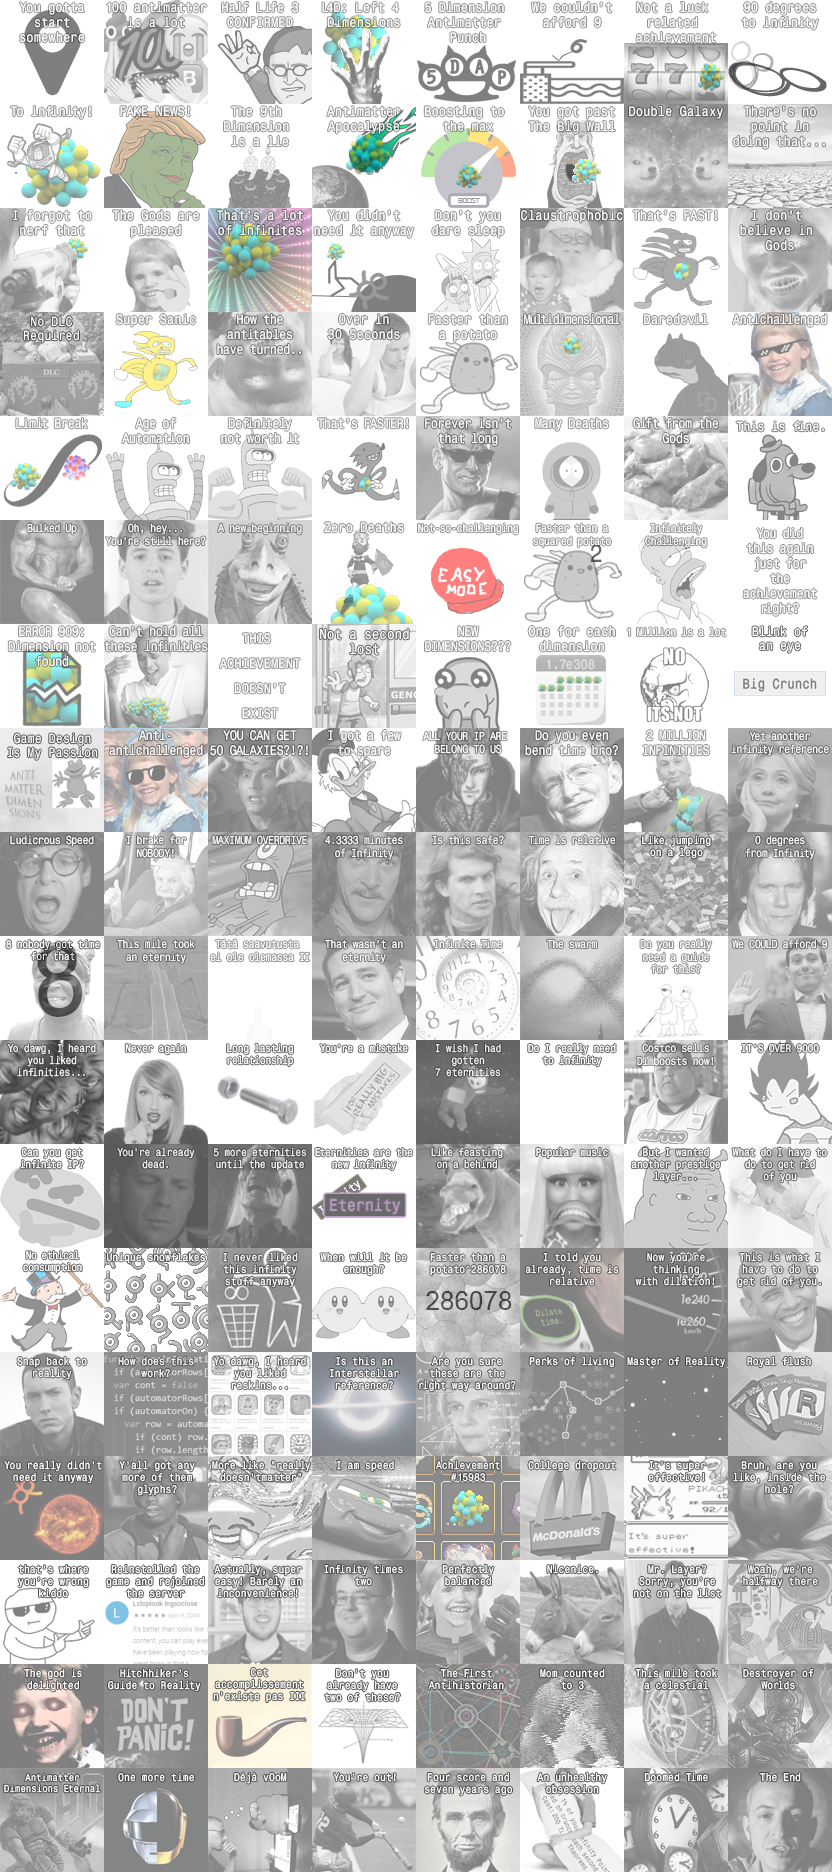
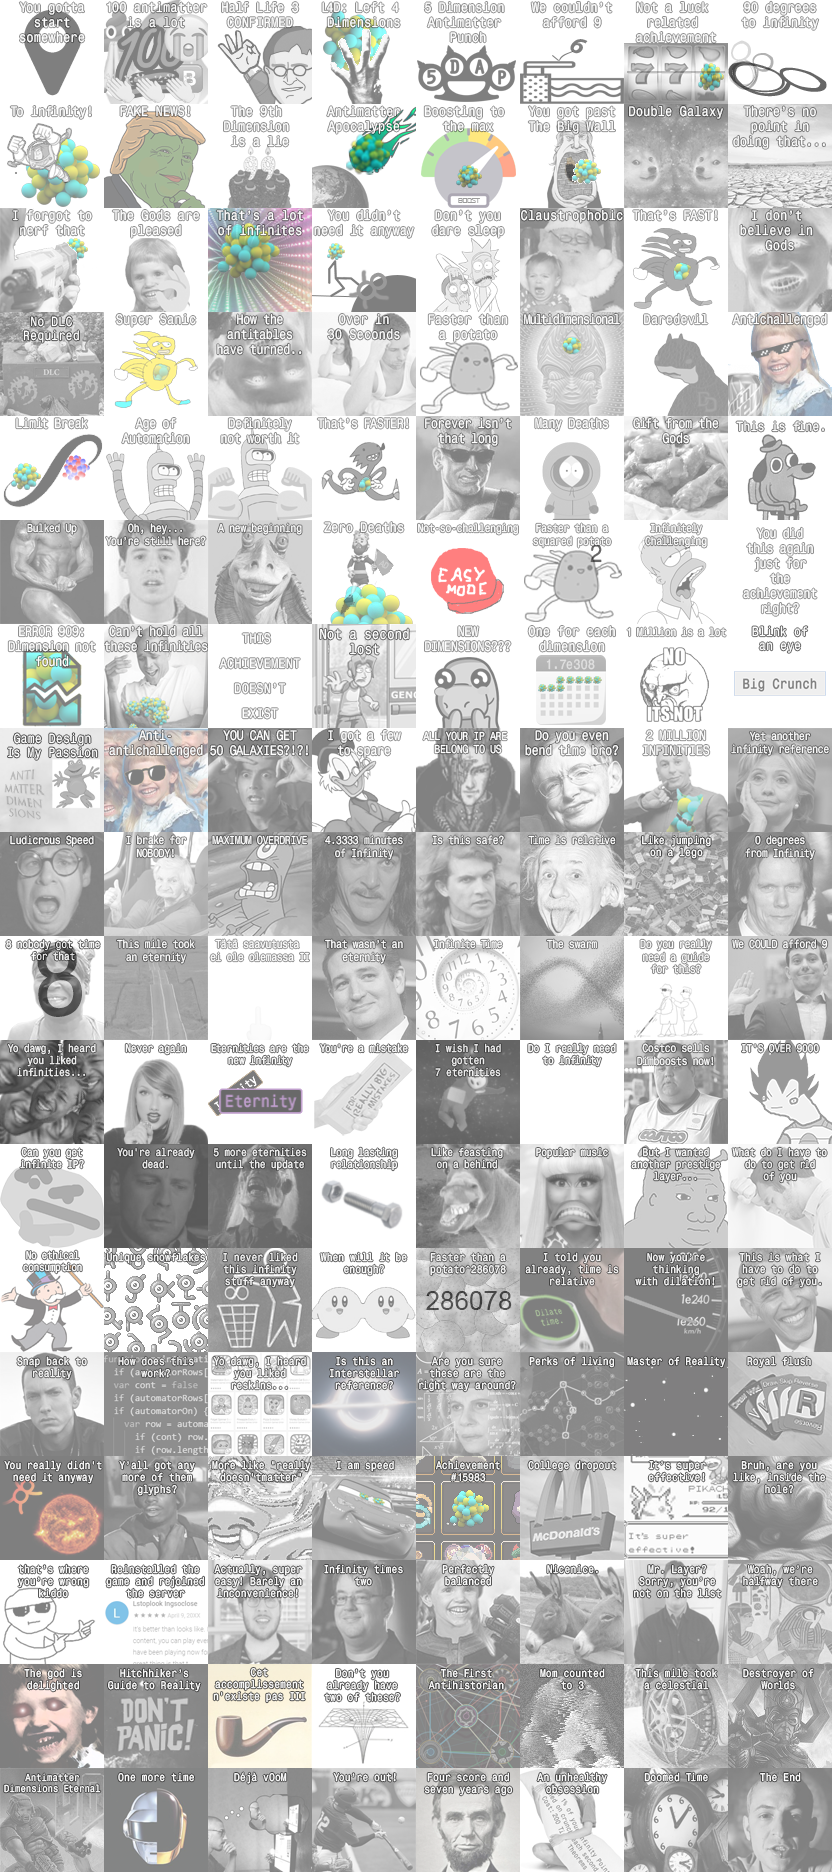
Swap positions, also fix export button

Changed region(s): [[0.25, 0.5577, 0.5, 0.6506]]

diff --git a/javascripts/core/secret-formula/achievements/normal-achievements.js b/javascripts/core/secret-formula/achievements/normal-achievements.js
@@ -782,18 +782,12 @@ GameDatabase.achievements.normal = [
   },
   {
     id: 113,
-    name: "Long lasting relationship",
-    get description() {
-      return `Have your Infinity Power per second exceed your Infinity Power
-      for ${formatInt(60)} consecutive seconds during a single Infinity.`;
-    },
-    checkRequirement: () => AchievementTimers.marathon2
-      .check(
-        !EternityChallenge(7).isRunning &&
-        InfinityDimension(1).productionPerSecond.gt(Currency.infinityPower.value),
-        60
-      ),
-    checkEvent: GAME_EVENT.GAME_TICK_AFTER
+    name: "Eternities are the new infinity",
+    get description() { return `Eternity in under ${formatInt(250)}ms.`; },
+    checkRequirement: () => Time.thisEternity.totalMilliseconds <= 250,
+    checkEvent: GAME_EVENT.ETERNITY_RESET_BEFORE,
+    get reward() { return `Gain ${formatX(2)} more Eternities.`; },
+    effect: 2,
   },
   {
     id: 114,
@@ -863,12 +857,18 @@ GameDatabase.achievements.normal = [
   },
   {
     id: 124,
-    name: "Eternities are the new infinity",
-    get description() { return `Eternity in under ${formatInt(250)}ms.`; },
-    checkRequirement: () => Time.thisEternity.totalMilliseconds <= 250,
-    checkEvent: GAME_EVENT.ETERNITY_RESET_BEFORE,
-    get reward() { return `Gain ${formatX(2)} more Eternities.`; },
-    effect: 2,
+    name: "Long lasting relationship",
+    get description() {
+      return `Have your Infinity Power per second exceed your Infinity Power
+      for ${formatInt(60)} consecutive seconds during a single Infinity.`;
+    },
+    checkRequirement: () => AchievementTimers.marathon2
+      .check(
+        !EternityChallenge(7).isRunning &&
+        InfinityDimension(1).productionPerSecond.gt(Currency.infinityPower.value),
+        60
+      ),
+    checkEvent: GAME_EVENT.GAME_TICK_AFTER
   },
   {
     id: 125,

diff --git a/javascripts/core/storage/migrations.js b/javascripts/core/storage/migrations.js
@@ -699,7 +699,11 @@ GameStorage.migrations = {
 
   convertAchievementsToBits(player) {
     // Also switches achievement positions
-    const swaps = { "4,3": "6,4", "6,4": "7,7", "7,7": "4,3", "10,1": "11,7", "11,7": "10,1" };
+    // So far there've been three swaps
+    // (1) a three-way swap of zero deaths, 1 million is a lot, and antitables
+    // (2) a two-way swap of costco sells dimboosts now and 8 nobody got time for that
+    // (3) a two-way swap of long lasting relationship and eternities are the new infinity
+    const swaps = { "4,3": "6,4", "6,4": "7,7", "7,7": "4,3", "10,1": "11,7", "11,7": "10,1", "11,3": "12,4", "12,4": "11,3" };
     const convertAchievementArray = (newAchievements, oldAchievements, isSecret) => {
       for (const oldId of oldAchievements) {
         let row = Math.floor(oldId / 10);

diff --git a/javascripts/core/storage/dev-migrations.js b/javascripts/core/storage/dev-migrations.js
@@ -1444,7 +1444,21 @@ GameStorage.devMigrations = {
       delete player.options.sidebarMinimized;
       delete player.options.chart;
       delete player.devMode;
-    }
+    },
+    player => {
+      let swap1 = player.achievementBits[10] & 4;
+      let swap2 = player.achievementBits[11] & 8;
+      if (swap1) {
+        player.achievementBits[11] |= 8;
+      } else {
+        player.achievementBits[11] &= ~8;
+      }
+      if (swap2) {
+        player.achievementBits[10] |= 4;
+      } else {
+        player.achievementBits[10] &= ~4;
+      }
+    },
   ],
 
   patch(player) {

diff --git a/javascripts/core/eternity.js b/javascripts/core/eternity.js
@@ -8,7 +8,7 @@ function giveEternityRewards(auto) {
 
   const newEternities = Pelle.isDisabled("eternityMults")
     ? new Decimal(1)
-    : new Decimal(getAdjustedGlyphEffect("timeetermult")).timesEffectsOf(RealityUpgrade(3), Achievement(124));
+    : new Decimal(getAdjustedGlyphEffect("timeetermult")).timesEffectsOf(RealityUpgrade(3), Achievement(113));
 
   if (Currency.eternities.eq(0) && newEternities.lte(10)) {
     Tab.dimensions.time.show();
